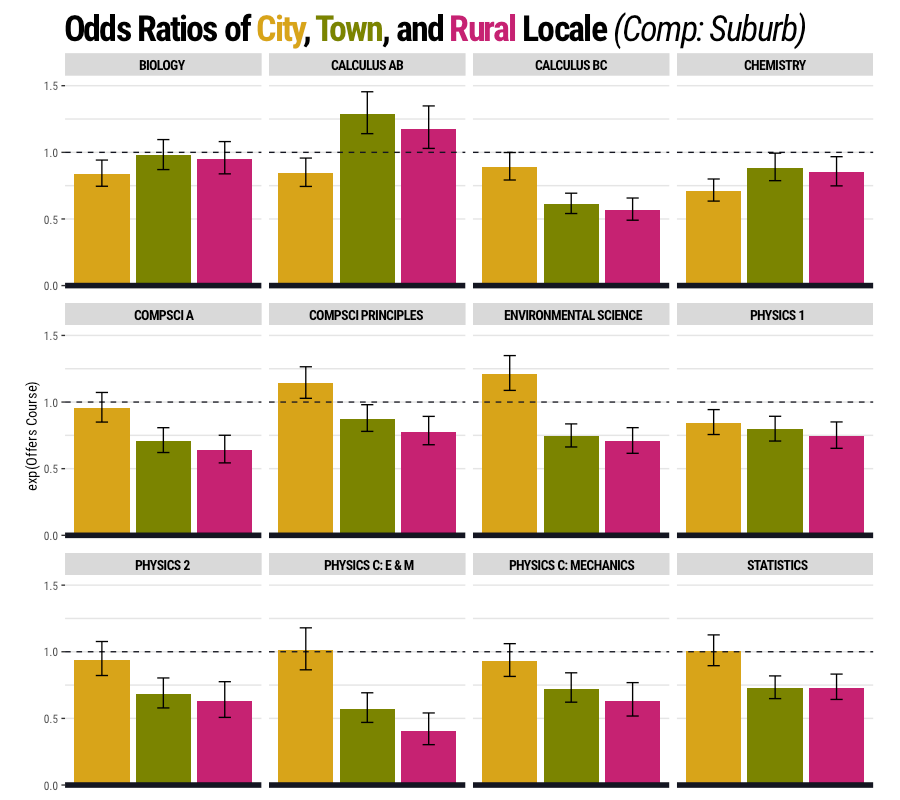
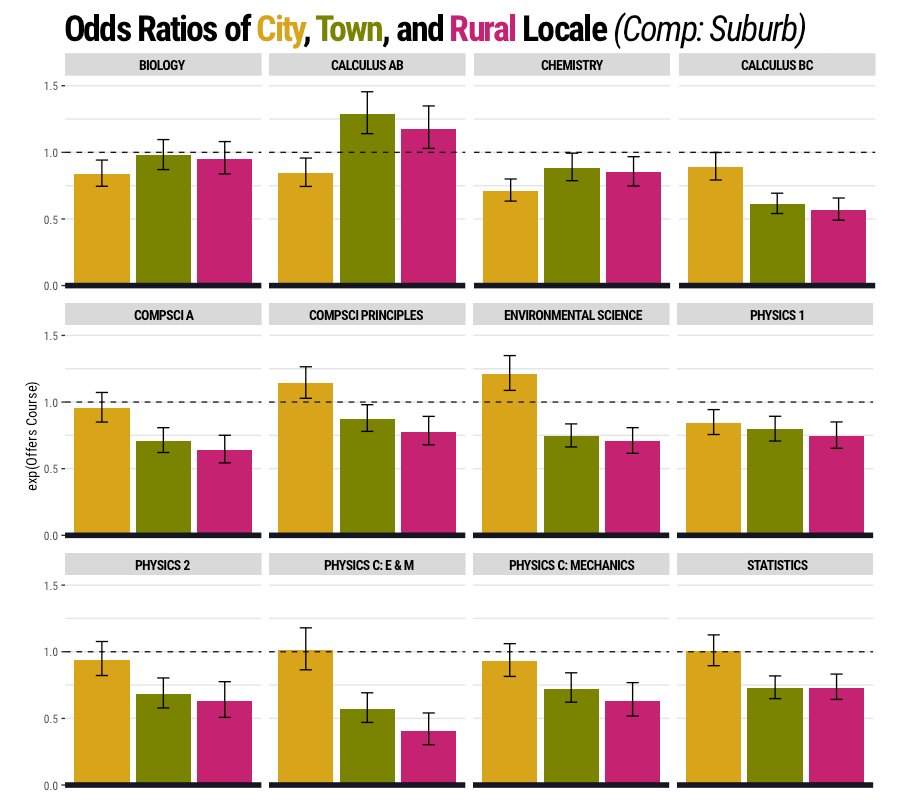
worked all all STEM odds ratios

Changed region(s): [[0.5289, 0.1875, 0.9644, 0.3438], [0.8089, 0.0625, 0.9022, 0.0938], [0.5911, 0.0625, 0.6844, 0.0938]]

diff --git a/utk/utk.html b/utk/utk.html
@@ -935,7 +935,8 @@ Kelly L. Boles
 <hr>
 <div class="center">
 <div class="r-stack">
-<p><img data-src="images/OddsRatiosCalcABCompSciASlide1.png" class="fragment" alt="Odds ratios of locale (city, town, rural) on probability of school i offering AP CalcAB" height="300"></p>
+<p><img data-src="images/OddsRatiosCalcABCompSciASlide0A.png" class="fragment" alt="Odds ratios of locale (city, town, rural) on probability of school i offering AP CalcAB" height="300"></p>
+<p><img data-src="images/OddsRatiosCalcABCompSciASlide1A.png" class="fragment" alt="Odds ratios of locale (city, town, rural) on probability of school i offering AP CalcAB or AP Computer Science A" height="300"></p>
 <p><img data-src="images/OddsRatiosCalcABCompSciASlide2.png" class="fragment" alt="Odds ratios of locale (city, town, rural) on probability of school i offering AP CalcAB or AP Computer Science A" height="300"></p>
 </div>
 </div>
@@ -977,8 +978,11 @@ Kelly L. Boles
 <hr>
 <div class="quarto-layout-panel">
 <div class="quarto-layout-row quarto-layout-valign-top">
-<div class="quarto-layout-cell" style="flex-basis: 54.6%;justify-content: center;">
+<div class="center quarto-layout-cell" style="flex-basis: 54.6%;justify-content: center;">
+<div class="r-stack">
 <p><img data-src="images/OddsRatiosAllSTEMCourses.png" class="fragment" alt="Odds ratios of locale (city, town, rural) on probability of school i offering AP STEM Course"></p>
+<p><img data-src="images/OddsRatiosAllSTEMCourses_TraditionalBox.png" class="fragment" alt="Odds ratios of locale (city, town, rural) on probability of school i offering AP STEM Course"></p>
+</div>
 </div>
 <div class="fragment even-smaller-font quarto-layout-cell" style="flex-basis: 45.5%;justify-content: center;">
 <ul>
